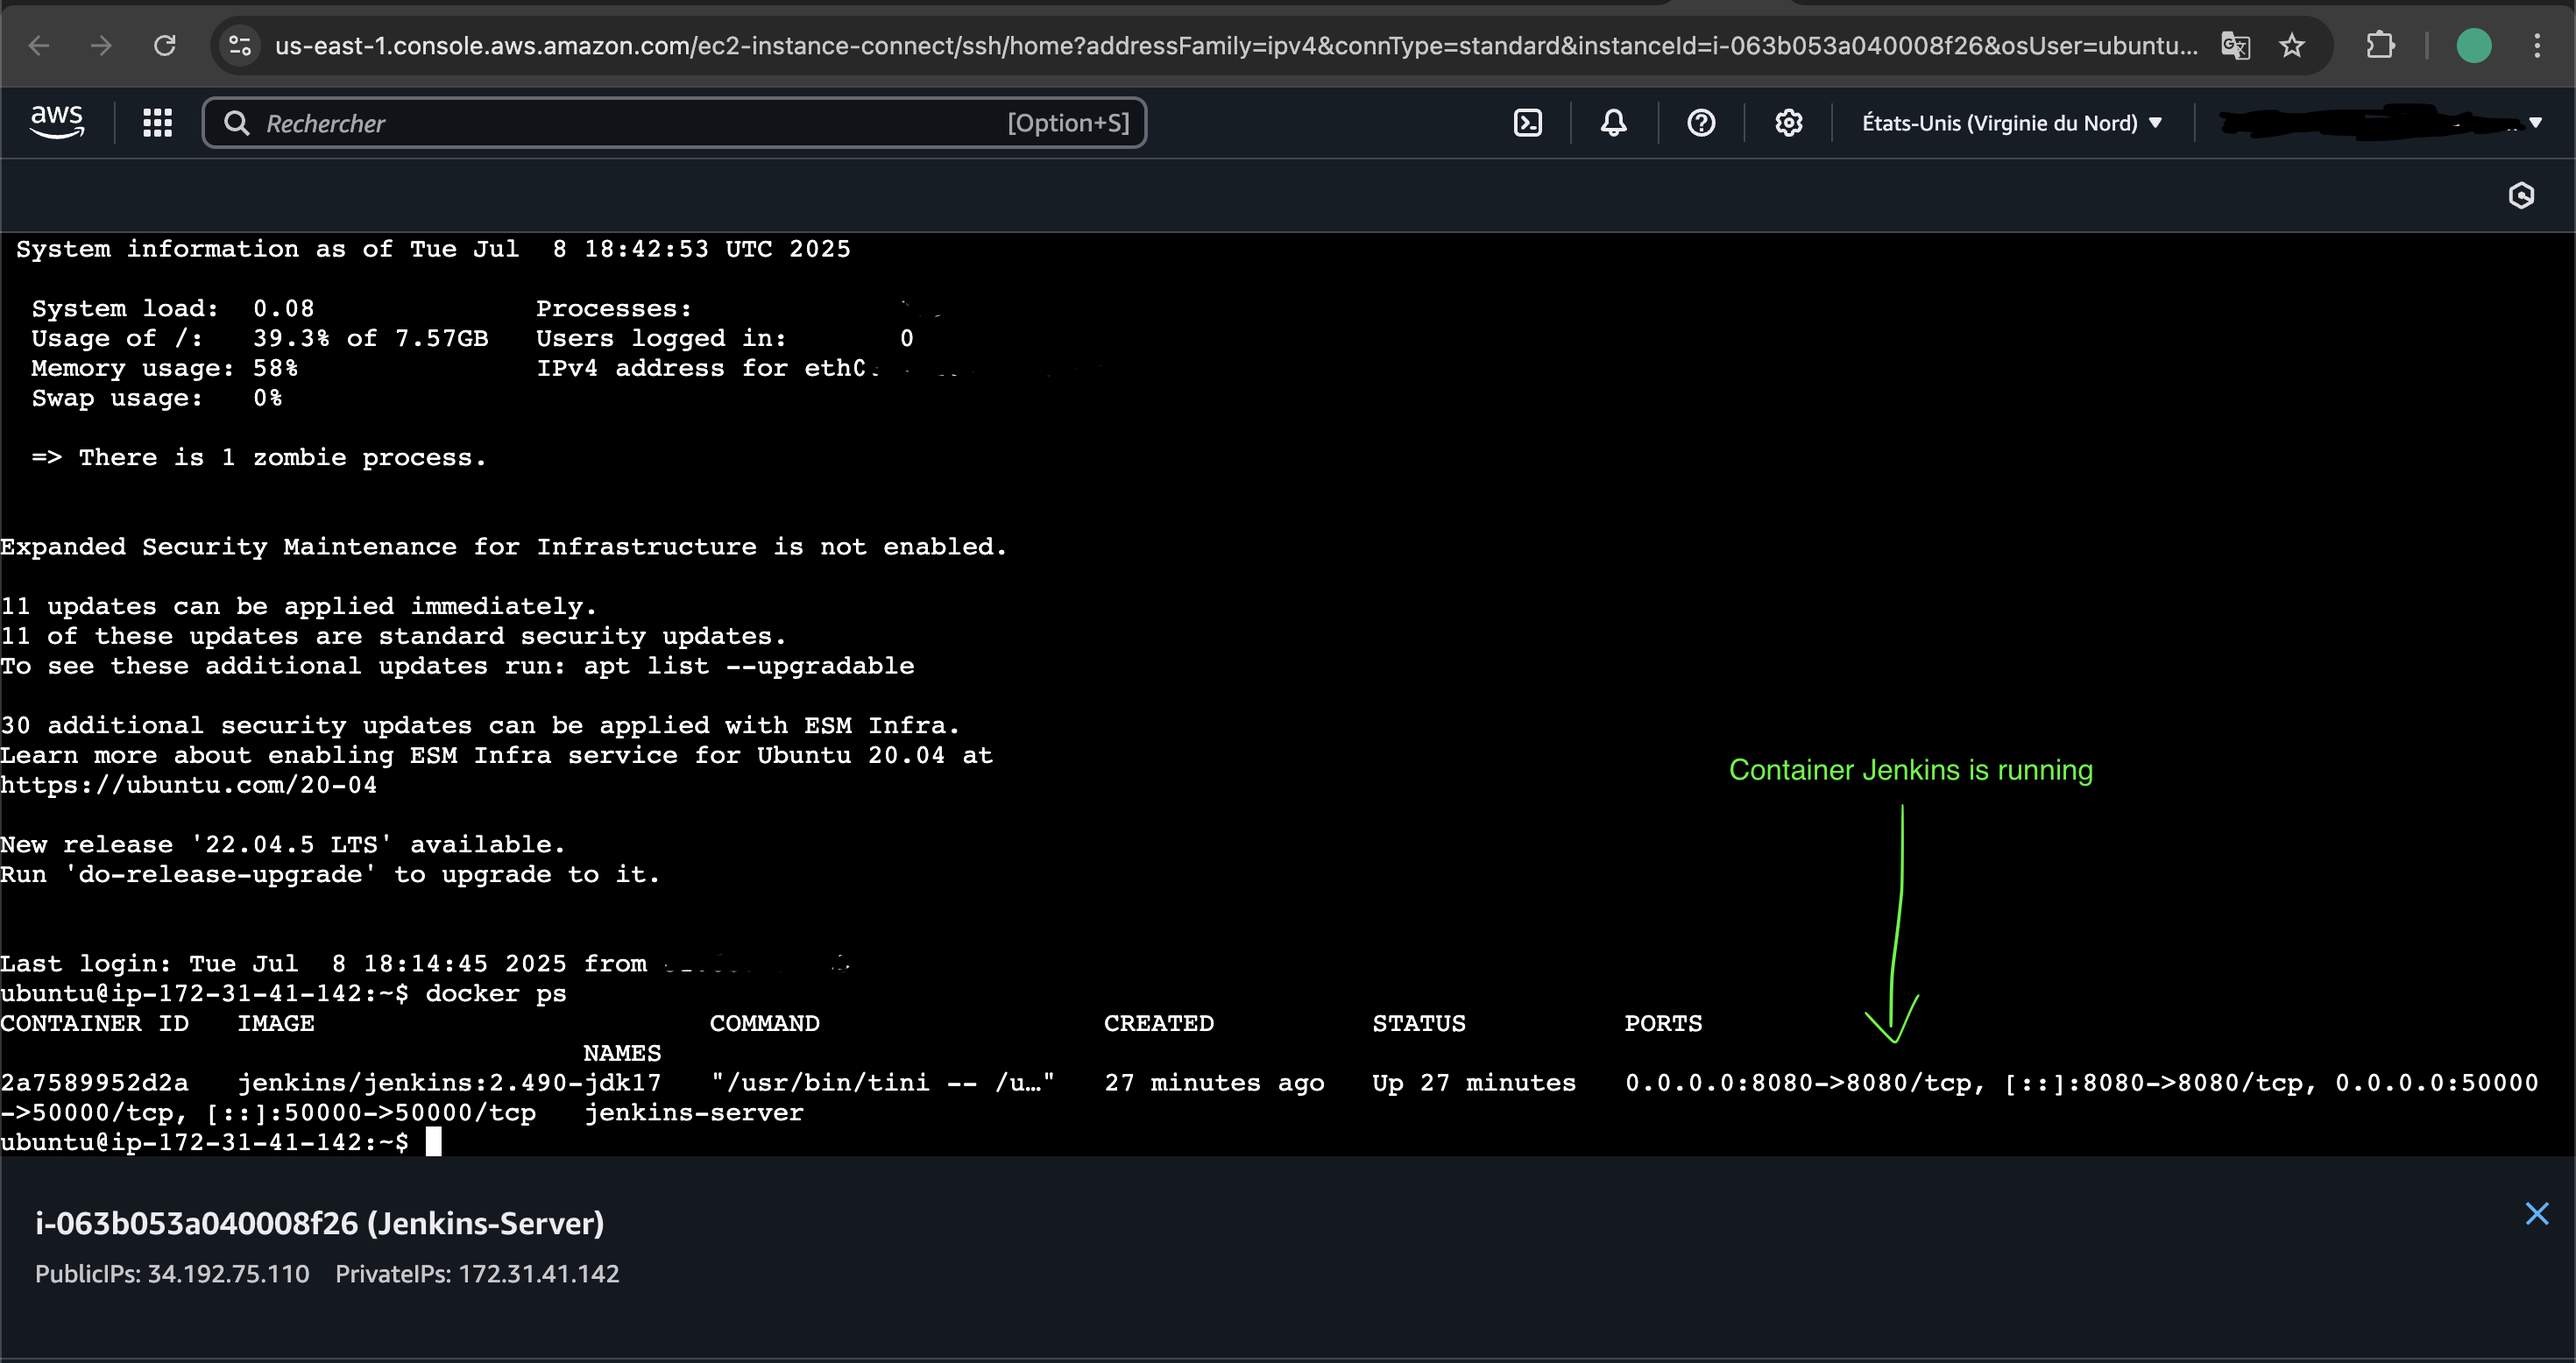
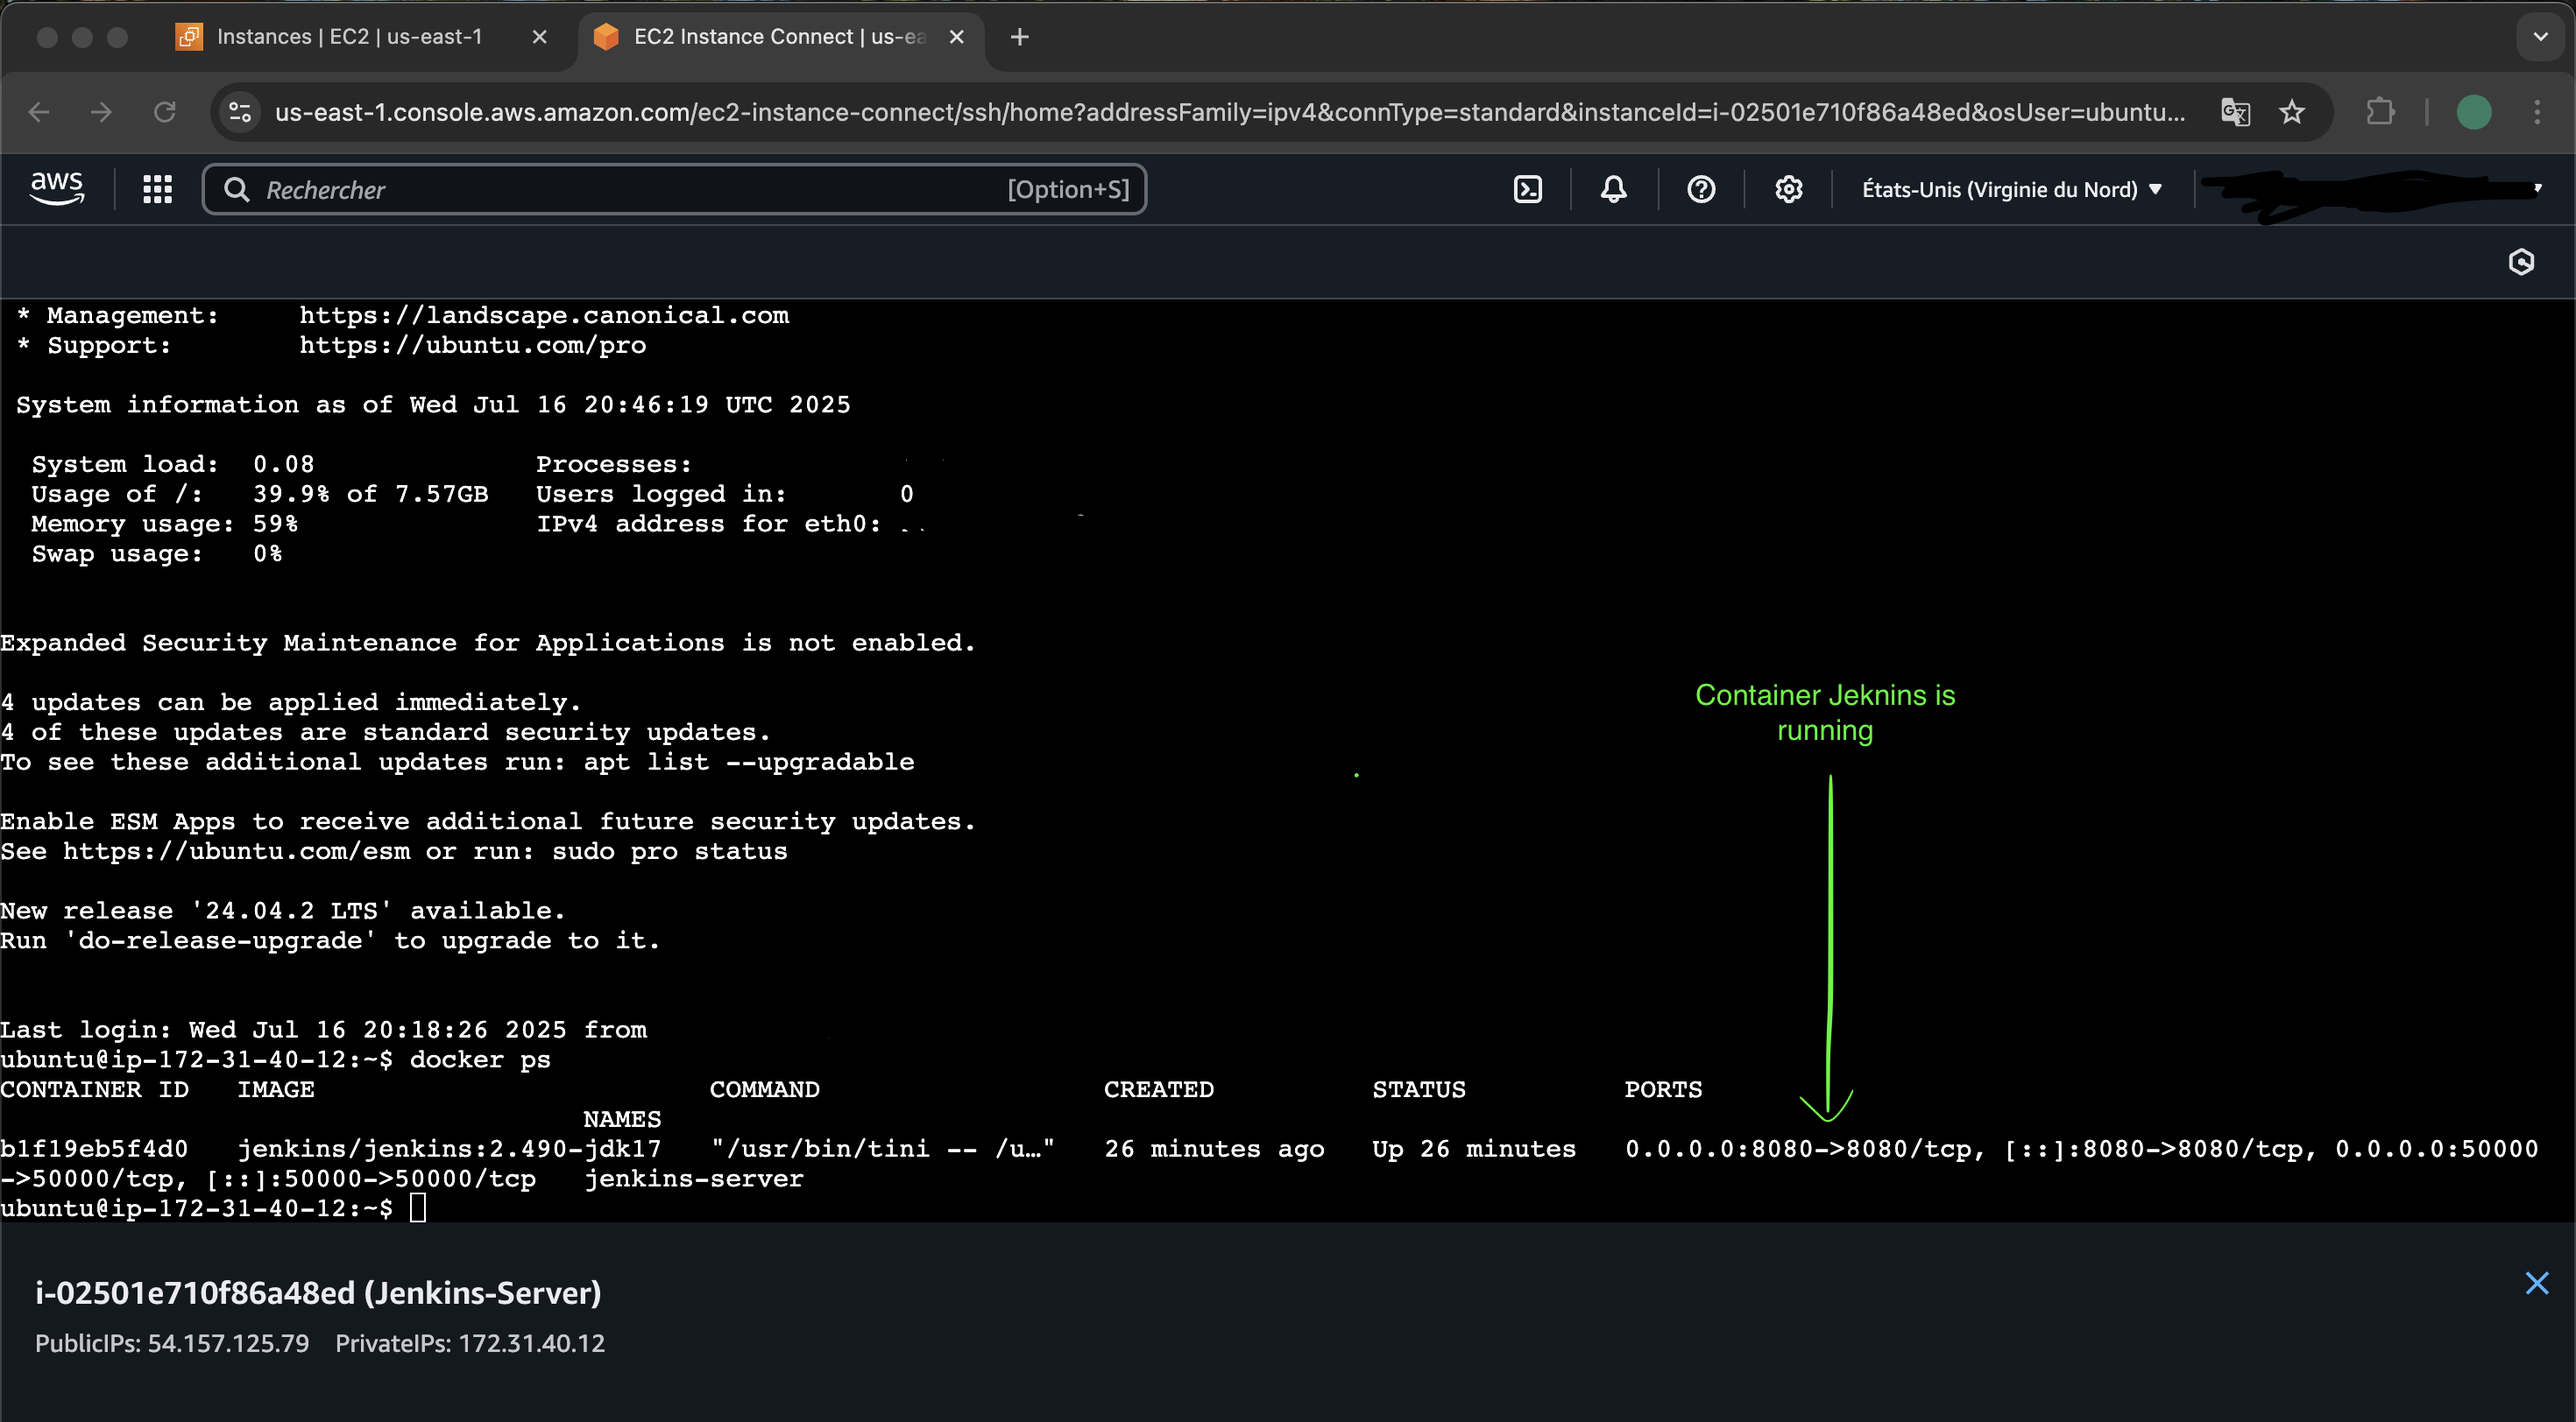
Set EIP

diff --git a/README.md b/README.md
@@ -89,3 +89,7 @@ Créer un volume EBS.
 ![alt text](Screenshots/Container-Jenkins-is-running.png)
 
 ![alt text](Screenshots/Container-is-available.png)
+
+![alt text](Screenshots/EIP.png)
+
+![alt text](Screenshots/Terraform-destroy.png)
